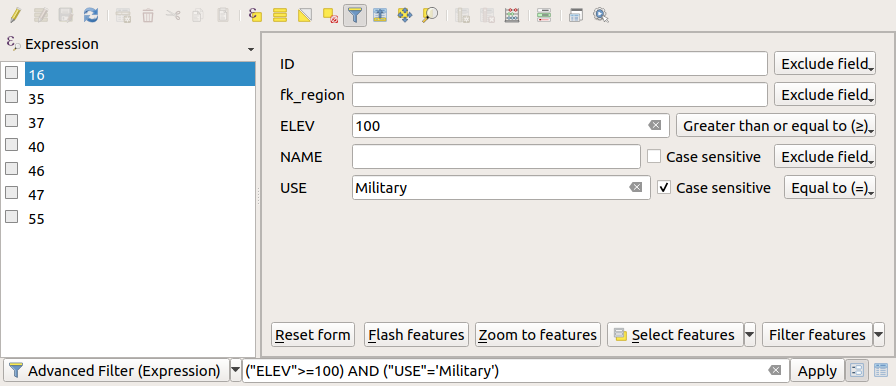
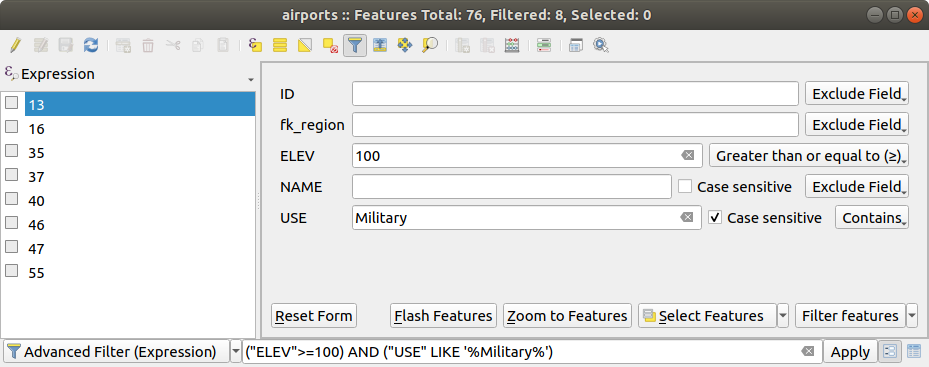
More on filtering features with form
Emphasize the difference with "select by value" dialog
Move up the screenshot to avoid "filter features" description get split
Fully show the screenshot

Changed region(s): [[0.0, 0.0, 1.0, 0.9891], [0.0, 0.7193, 0.0625, 0.7793], [0.0, 0.6594, 0.0625, 0.6894]]

diff --git a/source/docs/user_manual/working_with_vector/attribute_table.rst b/source/docs/user_manual/working_with_vector/attribute_table.rst
@@ -345,11 +345,12 @@ left of the attribute table dialog. This list offers the following filters:
   choose a column from a list, type a value and press :kbd:`Enter` to filter.
   Then, only the matching features are shown in the attribute table.
 * :guilabel:`Advanced filter (Expression)` - Opens the expression builder
-  dialog. Within it, you can create complex expressions to match table rows.
+  dialog. Within it, you can create :ref:`complex expressions
+  <vector_expressions>` to match table rows.
   For example, you can filter the table using more than one field.
-  See :ref:`vector_expressions` for more information.
+  When applied, the filter expression will show up at the bottom of the form.
 
-It is also possible to filter features using the :ref:`filter_select_form`.
+It is also possible to :ref:`filter features using forms <filter_select_form>`.
 
 .. note::
 
@@ -367,7 +368,6 @@ It is also possible to filter features using the :ref:`filter_select_form`.
   Visible on Map` on a new canvas extent updates the spatial restriction.
 
 
-
 .. _filter_select_form:
 
 Filtering and selecting features using forms
@@ -381,14 +381,17 @@ From this point onwards, this tool functionality is similar to the one described
 in :ref:`select_by_value`, where you can find descriptions of all operators
 and selecting modes.
 
-The filter expression will show up at the bottom of the form.
-
 .. _figure_filter_select_form:
 
 .. figure:: img/tableFilteredForm.png
     :align: center
 
     Attribute table filtered by the filter form
+
+In the attribute table case, there is also a :guilabel:`Filter features` 
+button that allows filtering features to list. Its use triggers the
+:guilabel:`Advanced filter (Expression)` option and displays the corresponding
+filter expression in an editable text widget at the bottom of the form.
 
 If there are already filtered features, you can refine the filter using the
 drop-down list next to the :guilabel:`Filter features` button. The options are:
